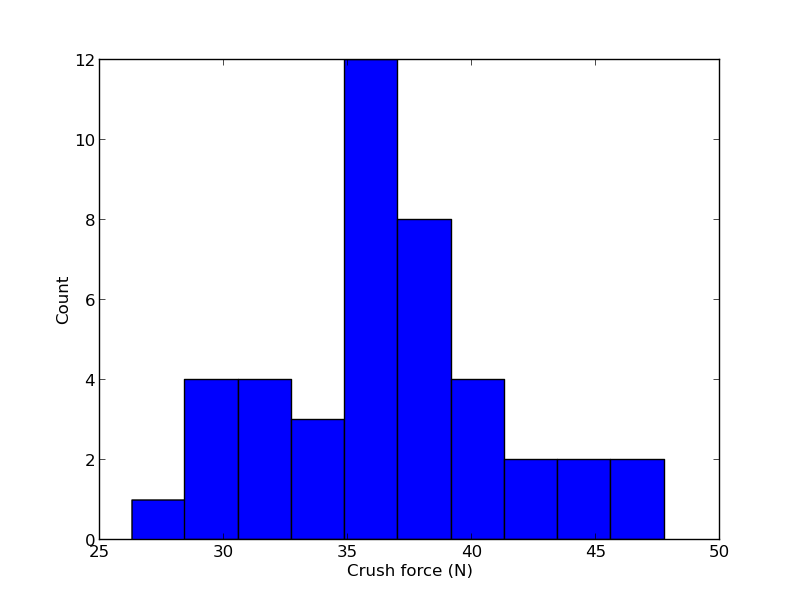
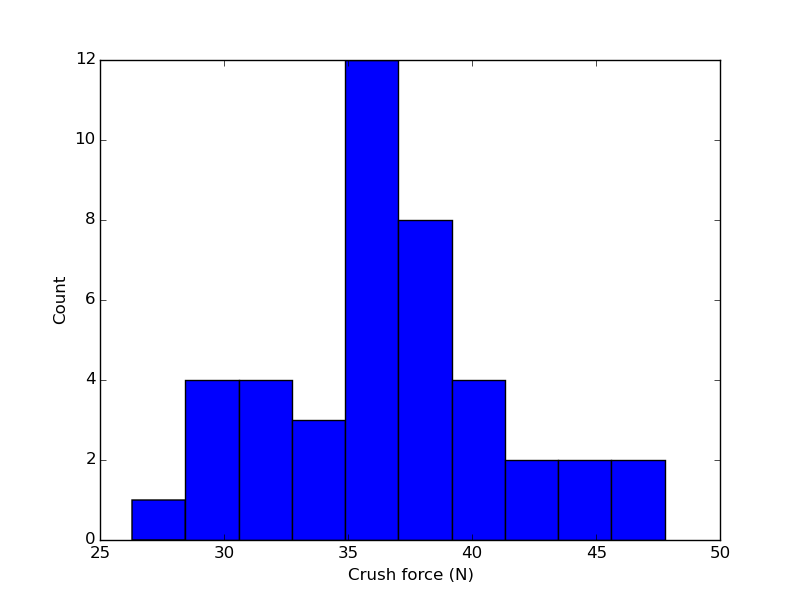
adds scripts and images from zwick data processing

diff --git a/scripts/zwick_data/NFRI/k-finder.py b/scripts/zwick_data/NFRI/k-finder.py
@@ -194,11 +194,22 @@ plt.savefig('k-v-d')
 
 plt.figure(103)
 
-n, bins, patches = plt.hist(kpeb, histtype='stepfilled', normed=True)
+n, bins, patches = plt.hist(kpeb, bins=10, histtype='stepfilled', normed=True)
 plt.xlim((0,1))
 plt.setp(patches, 'facecolor', 'g', 'alpha', 0.75)
 plt.xlabel('Elasticity reduction factor')
 plt.ylabel('Count')
 plt.savefig('k_hist')
 #~~~~~~~~~~~~~~~~~~~~~~~~~~~~~~~~~~~~~~~~~~~~~~
+
+# These made an f-distribution to fit kpeb -- but i'm not using it
+# from scipy.stats import f
+# dfn, dfd, loc, other = f.fit(kpeb, loc=min(kpeb))
+# x = np.linspace(0,1,100)
+# pdf = f.pdf(x, dfn, dfd, loc=loc, scale=other)
+# r = f.rvs(dfn, dfd, loc=loc,size=20)
+# plt.hist(r, bins=np.arange(loc, 1.1, 0.05), normed=False, alpha=0.4, color='k')
+# f.pdf(x, dfn, dfd, loc=loc, scale=other)
+# plt.plot(x,pdf)
+
 plt.show()
